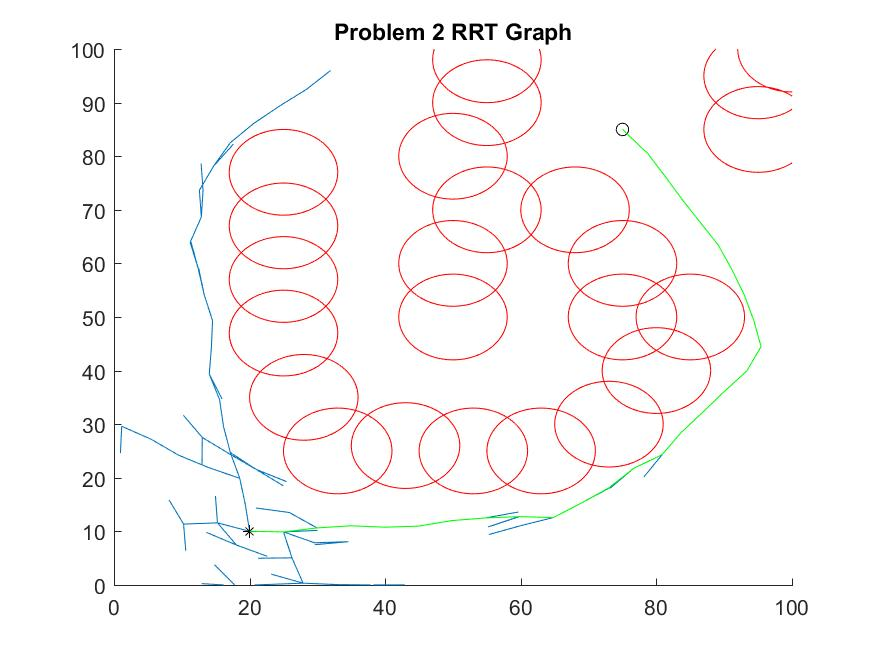
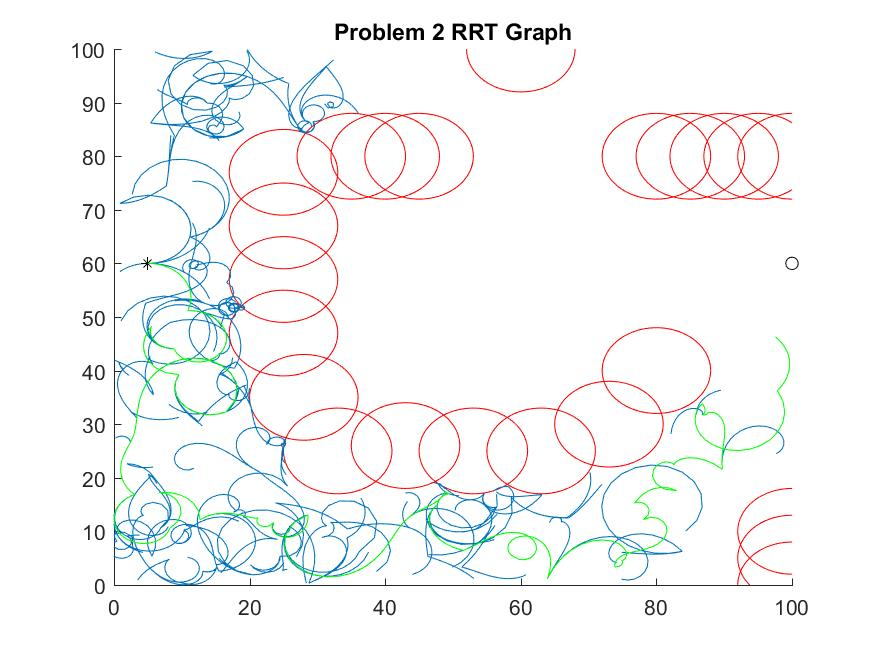
H4 finish code and will instruction later

diff --git a/TwoBVP.m b/TwoBVP.m
@@ -1,34 +1,28 @@
 % This function is to find the closest node that the car can achieve
 
-function ReachNode = TwoBVP(start,goal)
+function ReachNode = TwoBVP(start,goal,obstacles)
 
-% Initial delta_theta
-%delta_theta = atan((goal.y - start.y) / (goal.x - start.x));
-%startTOgoal_theta = atan((goal.y - start.y) / (goal.x - start.x));
-%start_vector = [cos(start.theta) sin(start.theta)]; % unit vector to show oritentation
-%start_goal = [(goal.y - start.y) (goal.x - start.x)];
-%delta_theta = acos(dot(start_vector,start_goal)/(norm(start_vector)*norm(start_goal)));
-
+%Initial normal vector to check sides
 normalVector = [-(goal.y - start.y) (goal.x - start.x)];
-
-% Initialize delta increment
-delta_epsilon = 0.25;
 
 % Initilize minimum distance between point to goal
 dist_min = inf;
 
-% Initial detla_traj for collsion check
-delta_traj = 0;
+% Initial parameters
+x_min = [];
+y_min = [];
+a_min = [];
+t_min = [];
+gamma_min = [];
 
 % Find the reached point that closest to goal
 for a = -2 : 0.5 : 2
     for gamma = -pi/4 : pi/10 : pi/4
-        
-        % Initialize time t
+        % Initialize t, gamma, a
         t = 0;
-        
-        % initial thetaT
-       % thetaT = @(t) start.w .* t + ((1/2) .* gamma .* (t.^2));
+
+        % Initial detla_traj for collsion check
+        delta_traj = 0;
 
         % initialize the function of displacement along x and y axis
         delta_x = @(t) cos(start.w .* t + ((1/2) .* gamma .* (t.^2)) + start.theta) .* (start.v + a .* t);
@@ -37,6 +31,7 @@ for a = -2 : 0.5 : 2
         % Initialize side checker
         SameSide = true;
         result_prev = 0;
+
         while  SameSide && t<10 %%abs(thetaT(t)) <= abs(delta_theta)
             
             % get w and v in current momment
@@ -57,10 +52,15 @@ for a = -2 : 0.5 : 2
             Node.y = start.y + deltaY;
             [SameSide, result_prev] = sideSame(result_prev, Node, normalVector, start);
             
+            %boundary checker
+            if Node.x<0 || Node.x>100 || Node.y<0 || Node.y>100
+                break;
+            end
+            
             %Collsion Checker
             delta_traj = delta_traj + sqrt(deltaX^2 + deltaY^2);
             if delta_traj > 0.25 
-                IsObstacle = InObstacle(Node);
+                IsObstacle = InObstacle(Node,obstacles);
                 if IsObstacle == true
                     break;
                 end
@@ -89,19 +89,19 @@ for a = -2 : 0.5 : 2
 
 end
 
+h = Trajectory(start.v,start.w,start.theta,a_min,gamma_min,t_min,start.x,start.y);
+
 ReachNode.x = x_min;
 ReachNode.y = y_min;
 ReachNode.theta =  mod((start.w * t_min + (1/2) * gamma_min^2 + start.theta), 2*pi);
 ReachNode.w = start.w + gamma_min * t_min;
 ReachNode.v = start.v + a_min * t_min;
 ReachNode.t = t_min;
+ReachNode.previous = start;
+ReachNode.a = a_min;
+ReachNode.gamma = gamma_min;
+ReachNode.line = h;
 
-Trajectory(start.v,start.w,start.theta,a_min,gamma_min,delta_epsilon,t_min,start.x,start.y);
-
-% plot test
-plot(start.x, start.y,'*'), hold on;
-plot(goal.x, goal.y,'*'), hold on;
-plot(ReachNode.x, ReachNode.y , '*');
 
 
 

diff --git a/main.m b/main.m
@@ -1,5 +1,5 @@
 %%%%%%%%%%%%%%%%%%%%%%%%%%%%%%%%%%%%%%%%%%%%%%%%
-%ENPM661 Homework 3
+%ENPM661 Homework 4
 %Author: Shaotu Jia
 %Brief: This program is to find fesiable path using RRT algorithm
 %Output Explantion: the output is figures and saved in 'Problem_Results'
@@ -15,24 +15,33 @@ close all;
 %%%%%%%%%%%%%%%%%%%%%%%%%%%%%%%%%%%%%%%%%%%%%%%%%%%%%%%%%%%%%%%%%%%%%%
 % !!!change this section for different inputs!!!
 % Initialize Problem_1 requirements
-start.x = 1;
-start.y = 99;
-start.theta = pi;
+start.x = 40;
+start.y = 40;
+start.theta = pi/4;
 start.v = 0;
 start.w = 0;
+start.t = 0;
+start.a = [];
+start.gamma =[];
+start.line.XData = [];
+start.line.YData = [];
 start.previous.x = -1;
 start.previous.y = -1;
 
-goal.x = 100;
+goal.x = 0;
 goal.y = 0;
 goal.R = 20;
-epsilon = 5; % the increment of every step
+epsilon = 20; % the increment of every step
 
 %Initialize Maximum Node Number
 K = 4000;
 
 %Initialize the figure
-figure(1), title('Problem 1 RRT Graph'), axis ([0 100 0 100]), hold on;
+figure(1), title('Problem 5 RRT Graph'), axis ([0 100 0 100]), hold on;
+
+%Load obstacle and draw obstracles on figure 1
+obstacles = load ('obstaclesH4.txt'); % load obstacle data
+drawCircle(obstacles);
 
 %%%%%%%%%%%%%%%%%%%%%%%%%%%%%%%%%%%%%%%%%%%%%%%%%%%%%%%%%%%%%%%%%%%%%%%
 % Initialize NodeInitial
@@ -44,7 +53,6 @@ closeSet = NodeInit;
 %Initialize NodeNew
 NodeNew = start;
 
-
 % for loop to generate RRT
 for k = 1 : K
     
@@ -54,19 +62,11 @@ for k = 1 : K
     
     NodeTemp = NEW_STATE(NodeNear, NodeRand, epsilon);
     
-    if InObstacle(NodeTemp) == false
-        NodeNew = NodeTemp;
-        
-       closeSet(end+1) = NodeNew;
     
-    %Generate Edge for draw
-    Edge.x = [NodeNew.x  NodeNear.x];
-    Edge.y = [NodeNew.y  NodeNear.y];
- 
-    %Draw RRT trees  
-    line(Edge.x , Edge.y);
-    hold on;
-    end
+    NodeNew = TwoBVP(NodeNear,NodeTemp,obstacles);
+    
+    %add new node in closeSet
+    closeSet(end+1) = NodeNew;
     
     if findGoal(NodeNew,goal) == true 
         goal.previous = NodeNew;
@@ -75,8 +75,8 @@ for k = 1 : K
         disp('find the goal');
         return;
         
-    end           
-    
+    end
+      
 end
 
 

diff --git a/Trajectory.m b/Trajectory.m
@@ -1,9 +1,6 @@
 % This function is to draw the trajectory between two points
 
-function Trajectory(v_init, w_init, theta_init, a, gamma, delta_epsilon, t_min,x_start, y_start)
-
-%initial time t and delta_t
-t = 0;
+function h = Trajectory(v_init, w_init, theta_init, a, gamma, t_min,x_start, y_start)
 
 % initialize the function of displacement along x and y axis
 delta_x = @(t) cos(w_init .* t + ((1/2) .* gamma .* (t.^2)) + theta_init) .* (v_init + a .* t);
@@ -13,33 +10,24 @@ delta_y = @(t) sin(w_init .* t + ((1/2) .* gamma .* (t.^2)) + theta_init) .* (v_
 seg_X = x_start;
 seg_Y = y_start;
 
-% Iniitilaze v_s
-v_s = v_init + a * t;
+%Initialize step
+step = t_min/20;
 
-while t < t_min
-    
-delta_t = deltaT(v_s, a, delta_epsilon);
-
-    if (t_min - t) < delta_t 
-        t = t_min;
-    else
-        t = t + delta_t;
-    end
-
+for t = 0: step : t_min
 
 % obtain the distance between reached point to goal 
-deltaX = integral(delta_x, 0 , t);
-deltaY = integral(delta_y, 0 , t);
+deltaX = integral(delta_x, 0 , t, 'ArrayValued',true);
+deltaY = integral(delta_y, 0 , t, 'ArrayValued',true);
 
 % Get end point of small increment
 seg_X(end + 1) = x_start + deltaX;
 seg_Y(end + 1) = y_start + deltaY;
 
-% update v_s
-v_s = v_init + a * t;
+
 end
 
 % draw trajectory
-figure(1), title('trajectory'), line(seg_X, seg_Y), hold on;
+h = line(seg_X, seg_Y);
+hold on;
 
 end

diff --git a/TextWrite.m b/TextWrite.m
@@ -1,0 +1,58 @@
+% This script is to generate text file 
+
+temp = goal.previous;
+i = [];
+a = [];
+gamma =[];
+w = [];
+v = [];
+theta = [];
+x = [];
+y = [];
+t = [];
+N = 0;
+
+ while temp.x ~= start.x || temp.y ~= start.y
+     N = N + 1;
+     i(end+1) = N;
+     a(end+1) = temp.a;
+     gamma(end+1) = temp.gamma;
+     w(end+1) = temp.w;
+     v(end+1) = temp.v;
+     theta(end+1) = temp.theta;
+     x(end+1) = temp.x;
+     y(end+1) = temp.y;
+     t(end+1) = temp.t;
+    
+
+     %update temp
+     temp = temp.previous;
+       
+ end
+ 
+ % flip and reshape array
+ a = fliplr(a);
+ gamma = fliplr(gamma);
+ w = fliplr(w);
+ v = fliplr(v);
+ theta = fliplr(theta);
+ x = fliplr(x);
+ y = fliplr(y);
+ t = fliplr(t);
+ 
+ % update to global time
+ for k = 2 : N
+    t(k) = t(k-1) + t(k);
+ end
+ 
+ 
+% output text file
+A = [t; x; y; theta; v; w; a];
+
+fileID = fopen('text_P5.txt','w');
+fprintf(fileID,'%s      %s          %s        %s      %s       %s        %s\n','t','x','y','theta', 'v','w','a');
+fprintf(fileID,'%d     %.2f     %.2f     %.2f     %.2f     %.2f     %.2f\n',A);
+fclose(fileID);
+
+ 
+ 

diff --git a/InObstacle.m b/InObstacle.m
@@ -1,11 +1,6 @@
 %Collision Detector
  
-function logic = InObstacle(NodeTemp)
-
-obstacles = load ('obstaclesH4.txt'); % load obstacle data
-
-%draw obstacles in graph
-drawCircle(obstacles);
+function logic = InObstacle(NodeTemp,obstacles)
 
 %find the number of obstacles
 N = length(obstacles(:,1));
@@ -18,8 +13,7 @@ for i = 1 : N
     
     %distance between obstacle center to new Node
     dist = sqrt((NodeTemp.x - OB(1))^2 + (NodeTemp.y - OB(2))^2);
-    
-    
+       
    if dist <= OB(3)
         logic = true;
         break;

diff --git a/reconstructPath.m b/reconstructPath.m
@@ -2,7 +2,7 @@
 
 function reconstructPath(start , goal)
  
- temp = goal;
+ temp = goal.previous;
  
  plot (start.x , start.y , '*', 'MarkerEdgeColor' , 'black');
  hold on;
@@ -11,10 +11,7 @@ function reconstructPath(start , goal)
  
  while temp.x ~= start.x || temp.y ~= start.y
      
-     Path.x = [temp.previous.x temp.x];
-     Path.y = [temp.previous.y temp.y];
-     
-     h = line(Path.x , Path.y );
+     h = line(temp.line.XData, temp.line.YData);
      h.Color = 'green';
      hold on;
      
